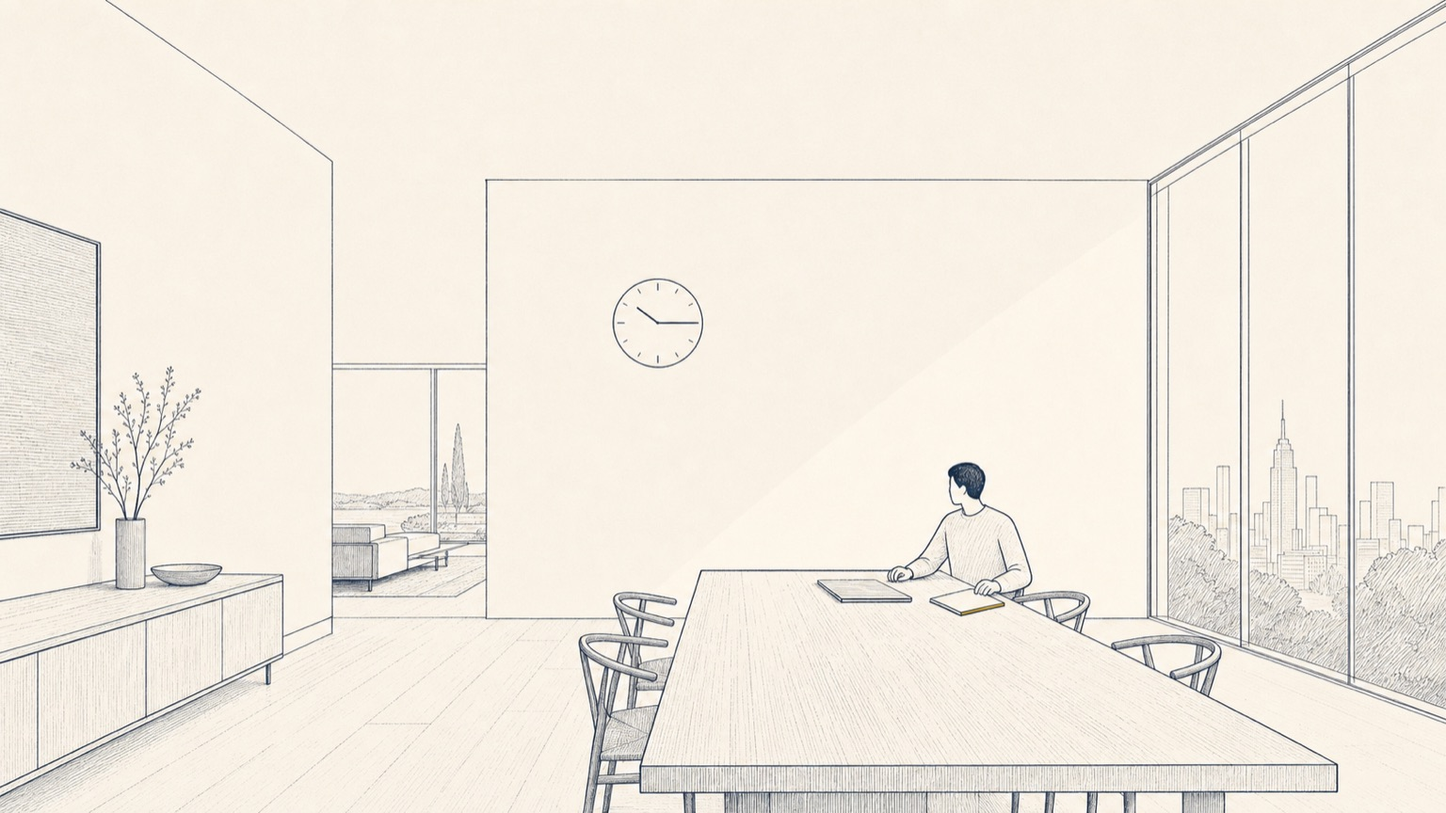
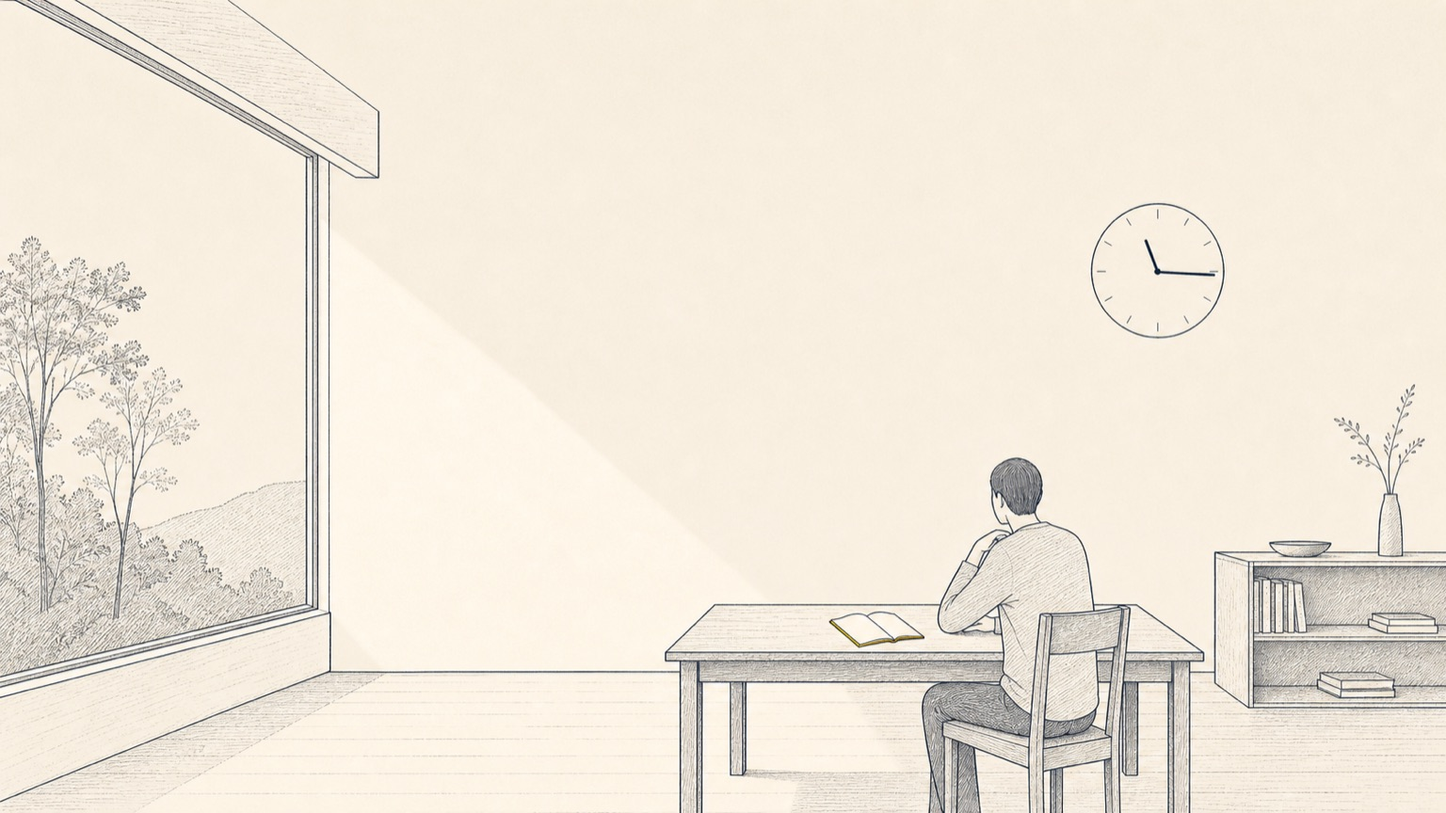
Generalize living between ambitions essay

diff --git a/_posts/2026-08-19-how-to-live-between-ambitions.md b/_posts/2026-08-19-how-to-live-between-ambitions.md
@@ -1,10 +1,10 @@
 ---
 layout: post
-title: "How to Live Between Ambitions: Work, Boredom, and the Next Chapter"
+title: "How to Live Between Ambitions: Boredom, Structure, and the Next Chapter"
 date: 2026-08-19
 ---
 
-*This post was researched and written on 2026-08-19 by GPT-5 (Codex), which gathered and checked the primary sources. A human set the question, context, and publication scope. It is a companion to [Living Well After Sudden Wealth](https://research.gmfoster.com/2026/08/14/good-life-after-sudden-wealth/) and [Choosing a Second Mountain](https://research.gmfoster.com/2026/08/15/choosing-a-second-mountain/); those cover money and mission, while this one covers the days in between.*
+*This post was researched and written on 2026-08-19 by GPT-5 (Codex), which gathered and checked the primary sources. A human set the question and publication scope. It is a companion to [Choosing a Second Mountain](https://research.gmfoster.com/2026/08/15/choosing-a-second-mountain/), which covers long-range purpose; this one covers the days in between.*
 
 ## Contents
 {:.no_toc}
@@ -14,41 +14,37 @@ date: 2026-08-19
 
 ## The answer before the evidence
 
-There is a particular kind of distress available to people whose lives look unusually good. The apartment is nice. Health is intact. Money has made most ordinary emergencies manageable. Work is no longer all-consuming, perhaps because success has made it optional or because interest has leaked out of it. From the outside, this is freedom. From the inside, an empty Tuesday can feel like an accusation.
+There is a particular kind of distress that appears between demanding chapters. The external conditions may be stable, yet an old structure has loosened before a new one exists. From the outside, this can look like freedom. From the inside, an empty Tuesday can feel like an accusation.
 
-The old job still pays, so leaving feels expensive. Staying feels dishonest. The next company could be important, so every unspent hour feels like lost momentum. A relationship needs care or a decision, so even dinner becomes evidence for a verdict. The calendar opens, and three different questions rush in to occupy it: How do I recover? Who am I without the old project? What should I choose next?
+The calendar opens, and several questions rush in to occupy it: How do I recover from the last period of intensity? What still feels meaningful? What should I explore next? The wish to answer them quickly can turn open time into another arena for pressure.
 
-My conclusion from the research is that these questions should not be answered on the same clock. The useful design is neither maximum busyness nor a blank calendar cultivated in the hope that boredom will reveal a calling. I would call it structured spaciousness: a few stable anchors, real detachment from the old work, protected open time, and small experiments that put possible futures into contact with reality.
+My conclusion from the research is that these questions should not be answered on the same clock. The useful design is neither maximum busyness nor a blank calendar cultivated in the hope that boredom will reveal a calling. I would call it structured spaciousness: a few stable anchors, real recovery from recent demands, protected open time, and small experiments that put possible futures into contact with reality.
 
-No study has assigned financially secure former founders to competing lifestyles. I am transferring evidence from work recovery, sabbaticals, career changes, founder exits, retirement, unemployment, and laboratory studies of motivation and incubation. That transfer is imperfect. It is still more useful than the two folk prescriptions, "stay busy" and "do nothing until desire returns."
+No study has assigned self-directed adults in transition to competing ways of organizing their days. I am transferring evidence from work recovery, sabbaticals, career changes, retirement, unemployment, identity transitions, and laboratory studies of motivation and incubation. That transfer is imperfect. It is still more useful than the two folk prescriptions, "stay busy" and "do nothing until desire returns."
 
-![A person sits alone at a long table in a spacious New York apartment, with an open calendar and city skyline beyond the windows.](https://research.gmfoster.com/assets/illustrations/living-between-ambitions/01-scene-empty-tuesday.jpg)
+![A person sits at a simple table in a quiet, non-specific room, with an open notebook and an unallocated day ahead.](https://research.gmfoster.com/assets/illustrations/living-between-ambitions/01-scene-empty-tuesday.jpg)
 
 ## The problem may be the kind of motivation, not the amount
 
 Someone can work hard, research constantly, train every day, and still be described accurately as having a motivation problem. Richard Ryan and Edward Deci's [self-determination research](https://selfdeterminationtheory.org/wp-content/uploads/2014/04/2000_RyanDeci_IntExtDefs.pdf) distinguishes autonomous motivation, acting from interest or a value one endorses, from controlled motivation, acting under reward, guilt, fear, or pressure. Both move behavior. They do not feel the same, and they do not have the same relationship with persistence and well-being.
 
-This distinction explains a state that otherwise looks incoherent: "I am driven, but I do not want to do any of the things driving me." Vesting, reputation, fear of wasted potential, the imagined judgment of other founders, and the need to prove that the first success was not luck can generate enormous activity. They can also make the activity feel alien.
+This distinction explains a state that otherwise looks incoherent: "I am driven, but I do not want to do any of the things driving me." External rewards, reputation, fear of wasted potential, and the imagined judgment of peers can generate enormous activity. They can also make the activity feel alien.
 
 The work literature repeatedly returns to three experiences: autonomy, competence, and relatedness. A [meta-analytic review spanning 99 studies and 119 samples](https://repository.nwu.ac.za/items/41302200-abe1-464f-b760-48ca7afa09fb) found that satisfaction of those needs at work had distinct relationships with motivation and well-being (empirical, mostly nonexperimental). Every hour need not be intrinsically delightful. But freedom without mastery or connection can feel empty, and impressive output can still be driven almost entirely by pressure.
 
 When a week feels dead, do not ask only how much was accomplished. Ask which activity felt chosen, where ability was stretched and made visible, and when another person was actually present. A calendar can be full and fail all three tests.
 
-The money question belongs here too. The old slogan that income stops improving happiness above $75,000 does not survive newer evidence. In a 2023 adversarial collaboration, the authors of competing studies found that [experienced well-being generally continued to rise with log income](https://pubmed.ncbi.nlm.nih.gov/36857342/), with flattening mainly among the least-happy subgroup (empirical, observational). Money matters. Its marginal effect shrinks, and it does not manufacture a Tuesday containing autonomy, competence, or relatedness.
-
 ## Recovery, identity, and choice run on different clocks
-
-The word *burnout* is often stretched to cover every aversion to work. Christina Maslach and Michael Leiter's [review of the burnout literature](https://pmc.ncbi.nlm.nih.gov/articles/PMC4911781/) describes a more specific cluster: exhaustion, cynicism or detachment, and reduced efficacy. It also identifies recurring mismatches in workload, control, reward, community, fairness, and values. A values mismatch and a sleep deficit can both produce dread, but they do not call for the same repair.
 
 Recovery itself is not just the absence of labor. In employee studies, Sabine Sonnentag and Charlotte Fritz found four distinguishable experiences: [psychological detachment, relaxation, mastery, and control over off-job time](https://doi.org/10.1037/1076-8998.12.3.204). The list helps explain why a day of scrolling can leave someone more depleted than a day spent climbing, cooking, or learning an instrument. The second group of activities may require effort while still providing detachment, agency, and mastery.
 
 There is a nasty feedback loop here. Sonnentag calls it the [recovery paradox](https://www.helsinki.fi/assets/drupal/2024-04/Sonnentag.pdf): the higher the job stress, the greater the need for recovery, but the less likely people are to detach, exercise, and sleep well. "I should relax better" then becomes another controlled goal. Structural boundaries work better than moral pressure: a hard stop, a separate place, notifications off, a plan with another person, and an activity absorbing enough to interrupt rehearsal of the work problem.
 
-Long breaks help, but the fade-out matters. A matched study followed [129 academics on sabbatical and 129 controls](https://stacks.cdc.gov/view/cdc/203334/cdc_203334_DS1.pdf) before, during, and after leave. Resource gain and well-being rose during the sabbatical, especially when people felt control and detached from routine work. Much of the gain disappeared after they returned. The participants averaged 56 and were still doing academic work, so this is not a founder trial. Its mixed verdict is useful anyway: respite is real, and it does not permanently repair the system one re-enters.
+Long breaks help, but the fade-out matters. A matched study followed [129 academics on sabbatical and 129 controls](https://stacks.cdc.gov/view/cdc/203334/cdc_203334_DS1.pdf) before, during, and after leave. Resource gain and well-being rose during the sabbatical, especially when people felt control and detached from routine work. Much of the gain disappeared after they returned. The participants averaged 56 and were still doing academic work, so this is not a direct trial of early-career transitions. Its mixed verdict is useful anyway: respite is real, and it does not permanently repair the system one re-enters.
 
-Identity moves more slowly. Elizabeth Rouse's interview study of technology founders included [30 voluntary, successful exits](https://journals.aom.org/doi/10.5465/amj.2013.1219). Founders oriented toward serial idea creation often had another identity underway before leaving. Founders attached to stewardship of a particular organization more often described sadness, pain, and loss. The author's own [summary of the research](https://eprints.lse.ac.uk/74322/) calls exit a process of psychological disengagement, an unbecoming as well as an opportunity. This is qualitative evidence, not a diagnostic typology, but it catches something financial accounts miss. The company can be sold in a day; the founder identity does not clear on settlement.
+Identity moves more slowly. A role can end before its habits and self-conceptions do. A few quiet weeks may lower exhaustion without answering who the person is next, which is why recovery and identity exploration should not be treated as the same task.
 
-Consequential choice runs on a third clock. A rested person has better conditions for judgment, but rest does not choose a career or a partner. A new identity produces information, but it cannot eliminate uncertainty. Trying to force all three processes to finish together creates the familiar spiral: recover urgently so that identity becomes clear so that a permanent decision can be made by Friday.
+Consequential choice runs on a third clock. A rested person has better conditions for judgment, but rest does not choose a direction. A new identity produces information, but it cannot eliminate uncertainty. Trying to force all three processes to finish together creates the familiar spiral: recover urgently so that identity becomes clear so that a permanent decision can be made by Friday.
 
 Lower the noise before demanding clarity. Explore before converging, and put high-stakes decisions in explicit containers rather than letting them turn every hour into deliberation.
 
@@ -56,7 +52,7 @@ Lower the noise before demanding clarity. Explore before converging, and put hig
 
 ## A blank calendar is not neutral
 
-Paid work delivers income and several less visible things. Unemployment research often uses Marie Jahoda's list: time structure, shared purpose, social contact, status, and regular activity. A [meta-analysis of 104 studies and 437 effect sizes](https://doi.org/10.1037/0021-9010.90.1.53) found lower well-being among unemployed than employed people and, within unemployed samples, strong relationships between mental health and resources including social support, money, and time structure (empirical). Involuntary unemployment is not a wealthy sabbatical. The narrower point travels: money replaces wages, not the rest of what work supplied.
+Paid work delivers income and several less visible things. Unemployment research often uses Marie Jahoda's list: time structure, shared purpose, social contact, status, and regular activity. A [meta-analysis of 104 studies and 437 effect sizes](https://doi.org/10.1037/0021-9010.90.1.53) found lower well-being among unemployed than employed people and, within unemployed samples, strong relationships between mental health and resources including social support, money, and time structure (empirical). Involuntary unemployment is not a voluntary transition. The narrower point travels: a pause can remove structure that a person never consciously chose.
 
 "I finally have nothing I have to do" can be exhilarating for a week and disorienting by month two. There is no morning coordination problem, no team expecting an answer, no casual hallway encounter, and no reason Tuesday differs from Saturday. Freedom has removed coercion, but it has also removed form.
 
@@ -86,31 +82,31 @@ Bertrand Russell reached a compatible conclusion by philosophy rather than exper
 
 The most useful career-transition evidence reverses the order ambitious people usually prefer. The standard fantasy is introspection first, correct answer second, commitment third. Herminia Ibarra's study of professional adaptation found people instead observing role models, trying [provisional selves](https://www.jstor.org/stable/2667055), and revising those trials using inner reactions and outside feedback (empirical, qualitative). Her later case research and [author's account of career transition](https://herminiaibarra.com/why-career-transition-is-so-hard-and-how-to-manage-it-better/) make the point directly: tacit knowledge about identity emerges through action, new relationships, and a revised story.
 
-This is especially relevant to company search. Researching markets uses familiar founder skills and produces a feeling of motion. It can also keep every possibility abstract enough to remain attractive. A month of reading about climate adaptation does not reveal whether one enjoys the people, pace, politics, or daily work in climate adaptation.
+This is especially relevant to the search for a new direction. Reading, mapping fields, and comparing possibilities can produce a feeling of motion while keeping every option abstract enough to remain attractive. A month of reading about climate adaptation does not reveal whether one enjoys the people, pace, politics, or daily work in climate adaptation.
 
-James March's classic model of [exploration and exploitation](https://hiveresearchlab.org/wp-content/uploads/2013/12/march_1991_exploration_and_exploitation_in_organizational_learning.pdf) explains why the trap is stable. Exploitation of known capabilities gives faster and more certain feedback than exploration. A good operator can therefore become extremely efficient at evaluating decks, mapping markets, and producing theses while learning little about whether a life inside the domain fits. March was modeling organizations, so applying this to a personal calendar is an inference. It is a useful one.
+James March's classic model of [exploration and exploitation](https://hiveresearchlab.org/wp-content/uploads/2013/12/march_1991_exploration_and_exploitation_in_organizational_learning.pdf) explains why the trap is stable. Exploitation of known capabilities gives faster and more certain feedback than exploration. A capable analyst can become extremely efficient at reading, mapping fields, and producing theses while learning little about whether a life inside the domain fits. March was modeling organizations, so applying this to a personal calendar is an inference. It is a useful one.
 
 I would force the search into three kinds of small experiment. The first tests craft: Do I like doing the work? Build a prototype, write an analysis, teach a session, conduct interviews, or make something for a real user. The second tests context by putting the person inside a lab, school, clinic, nonprofit, fund, workshop, or public agency. The third tests contribution: Does being useful here matter even without ownership? Mentor, volunteer, advise, host, maintain, or serve.
 
-Each experiment needs a question, another person or real beneficiary, a short time box, and a review date. Evaluate energy before, during, and after; desire to return; learning rate; contribution; social fit; and cost. Market size may still matter if a company is the eventual vehicle. It should not be the only sensor used to select a life.
+Each experiment needs a question, another person or real beneficiary, a short time box, and a review date. Evaluate energy before, during, and after; desire to return; learning rate; contribution; social fit; and cost. Practical constraints still matter. They should not be the only sensors used to select a life.
 
 The ratio I would enforce is not a scientific constant: for every week of reading and ideation, produce at least one encounter with reality. A conversation counts if it changes a belief. A prototype counts if someone uses it. A trial role counts if the unglamorous parts are included. More notes do not count merely because they are organized.
 
-## Purpose does not have to arrive company-sized
+## Purpose does not have to arrive all at once
 
-The pressure to identify one grand mission creates a hidden bottleneck. Until the mission appears, ordinary sources of meaning are treated as placeholders. Friendship, health, craft, a neighborhood, romance, art, and service become things to maintain while waiting for real life to restart.
+The pressure to identify one grand mission creates a hidden bottleneck. Until the mission appears, ordinary sources of meaning are treated as placeholders. Friendship, health, craft, a neighborhood, art, and service become things to maintain while waiting for real life to restart.
 
 The psychological evidence does not require this hierarchy. In a factor analysis of a national adult sample, Carol Ryff and Corey Keyes found that a [six-part model of well-being](https://midus.wisc.edu/findings/pdfs/830.pdf), autonomy, environmental mastery, personal growth, positive relationships, purpose, and self-acceptance, fit better than a single undifferentiated factor (empirical). Purpose is one dimension, not the entire structure. Mortality studies find that purpose predicts better long-term outcomes, including in a [14-year MIDUS follow-up](https://pubmed.ncbi.nlm.nih.gov/24815612/), but those studies are observational. They do not prove that discovering a single calling causes longevity.
 
-I would therefore carry several valued directions at once: health, intimacy, friendship and community, craft and learning, and contribution. A company may later organize several of them. It should not be asked to create all of them from nothing.
+I would therefore carry several valued directions at once: health, friendship and community, craft and learning, and contribution. A larger project may later organize several of them. It should not be asked to create all of them from nothing.
 
 Leisure belongs inside this structure, not after it. A quantitative review of 363 papers proposed six mechanisms connecting leisure and well-being: [detachment, relaxation, autonomy, mastery, meaning, and affiliation](https://www.davidbenjaminnewman.com/uploads/1/3/2/7/132771163/johs-2014-leisure_and_swb.pdf). The model organizes a mostly correlational literature, so it is not a prescription. It does make a neglected point visible: a basketball league, choir, climbing gym, cooking practice, garden, or reading group may be doing serious psychological work without becoming monetizable.
 
 Community is more than mood decoration. A meta-analysis of 148 prospective studies and 308,849 participants found that [stronger social relationships were associated with 50 percent higher odds of survival](https://journals.plos.org/plosmedicine/article?id=10.1371/journal.pmed.1000316), with substantial heterogeneity and the strongest association for multidimensional social integration. This is observational mortality evidence, not proof that adding one dinner causes a specified health gain. It is enough to move recurring contact out of the optional column.
 
-Older traditions arrived at a similar calendar by moral reasoning. The Sabbath command in [Exodus](https://www.sefaria.org/Exodus.20.8-11) puts nonwork on a recurring communal schedule instead of waiting for work to finish (traditional wisdom). Aristotle's [*Nicomachean Ethics*](https://www.perseus.tufts.edu/hopper/text?doc=Perseus%3Atext%3A1999.01.0054%3Abook%3D10) distinguishes amusement used to recover for more work from worthwhile activity pursued for its own sake. A secular version is not a clever productivity tool. It is a recurring period in which career optimization, venture search, financial scorekeeping, and relationship analysis are simply not the activity.
+Older traditions arrived at a similar calendar by moral reasoning. The Sabbath command in [Exodus](https://www.sefaria.org/Exodus.20.8-11) puts nonwork on a recurring communal schedule instead of waiting for work to finish (traditional wisdom). Aristotle's [*Nicomachean Ethics*](https://www.perseus.tufts.edu/hopper/text?doc=Perseus%3Atext%3A1999.01.0054%3Abook%3D10) distinguishes amusement used to recover for more work from worthwhile activity pursued for its own sake. A secular version is not a clever productivity tool. It is a recurring period in which planning, status comparison, and self-evaluation are simply not the activity.
 
-Leisure that exists only to restore work capacity or prepare the next company remains subordinate to work.
+Leisure that exists only to restore work capacity or prepare the next project remains subordinate to work.
 
 ## A four-to-six-week trial
 
@@ -120,18 +116,18 @@ No evidence establishes an optimal schedule for this population. What follows is
 
 | Part of day | A workable default |
 |---|---|
-| Opening anchor, 30 to 90 minutes | Wake in a consistent window; get light, food, and movement; do not begin with career search |
-| Chosen mastery, 60 to 120 minutes | Make or practice something that need not become a company |
+| Opening anchor, 30 to 90 minutes | Wake in a consistent window; get light, food, and movement; do not begin with future planning |
+| Chosen mastery, 60 to 120 minutes | Make or practice something that need not become a project |
 | Real-world exploration, 60 to 180 minutes on selected days | Have a conversation, observe work, prototype, serve, or try a role |
 | Undemanding interval, 20 to 90 minutes | Walk, cook, handle chores, take transit, or exercise easily after focused work |
 | Social or contribution contact | Share a meal, attend a class or team, call someone, mentor, or volunteer |
-| Closing boundary | End work and venture evaluation at a set time |
+| Closing boundary | End structured effort and future evaluation at a set time |
 
-This is not a substitute eight-hour job. On a difficult day, shrink it to a 20-minute walk, one call or shared meal, and 20 minutes practicing or making. The analogy is behavioral activation, where scheduled valued activity has helped adults with depression in clinical trials, including a [241-person randomized study](https://pubmed.ncbi.nlm.nih.gov/16881773/). The analogy is not a diagnosis, and a self-made calendar is not a clinical protocol. The relevant lesson is that action need not wait for motivation.
+This is not a substitute full-day agenda. On a difficult day, shrink it to a 20-minute walk, one call or shared meal, and 20 minutes practicing or making. The analogy is behavioral activation, where scheduled valued activity has helped adults with depression in clinical trials, including a [241-person randomized study](https://pubmed.ncbi.nlm.nih.gov/16881773/). The analogy is not a diagnosis, and a self-made calendar is not a clinical protocol. The relevant lesson is that action need not wait for motivation.
 
-Across a week, schedule three focused experiments tied to real questions and two or three embodied mastery sessions such as sport, dance, or craft. Put two recurring social commitments on the calendar, plus one block for helping a person or institution without immediately turning the experience into networking or a venture thesis.
+Across a week, schedule three focused experiments tied to real questions and two or three embodied mastery sessions such as sport, dance, or craft. Put two recurring social commitments on the calendar, plus one block for helping a person or institution without immediately turning the experience into a credential or thesis about the future.
 
-Protect one half-day of open space with no errand stack and no feed. Walking, wandering, museums, cooking, reading, rest, and a question already engaged are all allowed. Protect another half-day or day as a Sabbath-like stop with no work optimization, company ideation, financial scorekeeping, or relationship analysis. The first period permits surprise and incubation. The second keeps some of life from becoming an input to a future outcome. They can overlap if the distinction remains intact.
+Protect one half-day of open space with no errand stack and no feed. Walking, wandering, museums, cooking, reading, rest, and a question already engaged are all allowed. Protect another half-day or day as a Sabbath-like stop with no strategic planning, status comparison, or future evaluation. The first period permits surprise and incubation. The second keeps some of life from becoming an input to a future outcome. They can overlap if the distinction remains intact.
 
 Use 45 minutes at week's end to review what happened. Do not build a quantified-self bureaucracy; one page is enough, with scores from 0 to 3 if numbers help. Ask:
 
@@ -139,33 +135,29 @@ Use 45 minutes at week's end to review what happened. Do not build a quantified-
 - Did I detach and relax, and where did I experience mastery or control over my time?
 - What did reality teach that research alone could not, and what happened to my energy before, during, and after?
 - What felt worthwhile even if no market valued it?
-- What did I call research that was actually delay, which open periods became numbing, and which goals ran mostly on status, money, guilt, or fear?
+- What did I call research that was actually delay, which open periods became numbing, and which goals ran mostly on status, guilt, or fear?
 
 Then keep one commitment, drop one, and adjust one experiment. This is a learning loop, not a quarterly performance review on the self.
 
-The larger transition can be looser. If circumstances permit, spend roughly two to six weeks lowering arousal, restoring physical rhythm, detaching from the old role, and reestablishing nonwork relationships while keeping one small mastery practice. Over the next six to twelve weeks, run two or three cheap, reversible identity experiments and let direct contact precede most market research. Increase commitment only where repeated experience shows curiosity, contribution, social fit, and a desire to return.
+The larger transition can be looser. If circumstances permit, spend roughly two to six weeks lowering arousal, restoring physical rhythm, stepping back from recent demands, and reestablishing recurring social contact while keeping one small mastery practice. Over the next six to twelve weeks, run two or three cheap, reversible identity experiments and let direct contact precede extensive research. Increase commitment only where repeated experience shows curiosity, contribution, social fit, and a desire to return.
 
 Those durations are planning ranges, not biological thresholds. Their job is to prevent a permanent choice made inside acute strain without turning the in-between period into an indefinite lifestyle.
 
-## Put high-stakes decisions in separate containers
+## Keep consequential decisions outside the schedule
 
-A life-design schedule should not be asked to decide an employment contract or a relationship. Those choices have facts, counterparties, and consequences that the general well-being literature cannot see.
+A life-design schedule should not be asked to settle relocations, health choices, or other consequential commitments. Those decisions have facts and consequences that the general well-being literature cannot see.
 
-Trying to engineer a dismissal, for example, is not the same intervention as working fewer hours. A 2025 multicountry study followed 2,896 employees at 141 organizations adopting a four-day week without reduced pay and found [improvements in burnout, job satisfaction, and health](https://www.nature.com/articles/s41562-025-02259-6) relative to 12 comparison companies. The firms prepared by redesigning work. That does not establish that covert withdrawal under unchanged expectations improves well-being. Contract, equity, legal, ethical, and reputation questions must be examined on their actual documents and facts.
-
-Relationship uncertainty deserves the same separation. A [meta-analysis of intolerance of uncertainty](https://www.sciencedirect.com/science/article/pii/S0165032717306584) found strong associations with worry and anxiety, although almost all included studies were cross-sectional, involved children or adolescents, and had nothing to do with romantic decisions. Research on commitment also distinguishes deliberately deciding from sliding through transitions that add constraints. Stanley, Rhoades, and Markman's [paper on cohabitation and inertia](https://doi.org/10.1111/j.1741-3729.2006.00418.x) is narrower than the general slogan, and cultural patterns have changed. The defensible practical inference is containment: explicit conversations and mutually understood review dates for consequential choices, without monitoring every shared meal for a final answer.
-
-A weekly relationship window may help if both people understand what it is for. It is not an evidence-based universal protocol, and it is not appropriate where safety, coercion, abuse, or urgent legal or fertility considerations change the stakes.
+Give each one its own process: gather the relevant facts, identify what is reversible, set a review date, and consult qualified expertise where the stakes require it. A better day may improve the conditions for judgment. It cannot supply the judgment itself.
 
 ## What the schedule cannot do
 
-This structure cannot reveal a company on command, make an incompatible job compatible, or make an unsafe relationship safe. Nor should every period of low mood be treated as a lifestyle problem.
+This structure cannot reveal a calling on command or resolve a consequential decision. Nor should every period of low mood be treated as a lifestyle problem.
 
-[Persistent loss of pleasure, severe sleep change, inability to function, or thoughts of self-harm](https://www.nimh.nih.gov/health/publications/depression) deserve qualified clinical attention, as do panic or escalating substance use. [Burnout overlaps with depression but is not identical to it](https://pmc.ncbi.nlm.nih.gov/articles/PMC4911781/), and a research essay cannot distinguish them for an individual.
+[Persistent loss of pleasure, severe sleep change, inability to function, or thoughts of self-harm](https://www.nimh.nih.gov/health/publications/depression) deserve qualified clinical attention, as do panic or escalating substance use. A research essay cannot distinguish a difficult transition from a condition that needs individual assessment.
 
 The schedule has a smaller use. It replaces some of work's hidden structure, protects recovery without letting rest become formlessness, and turns the search for a future from an abstract ranking problem into lived encounters.
 
-Seneca's target in [*On the Shortness of Life*](https://en.wikisource.org/wiki/On_the_shortness_of_life) was not work but preoccupation (traditional wisdom): a life pledged to ambition, obligation, appetite, and anticipation. Working less while mentally pricing an exit, a startup, and a relationship all day is still a form of total occupation.
+Seneca's target in [*On the Shortness of Life*](https://en.wikisource.org/wiki/On_the_shortness_of_life) was not work but preoccupation (traditional wisdom): a life pledged to ambition, obligation, appetite, and anticipation. A nominally open day spent mentally pricing every possible future is still a form of total occupation.
 
 The alternative is a day with edges: some chosen work, contact with reality, movement, another person, and an undemanding interval after holding a real question. It also has a known stopping time and some activity that is not being judged by its contribution to the future.
 
@@ -176,7 +168,6 @@ The next ambition may emerge from that life. It does not need to be invented bef
 - [Ryan and Deci, "Intrinsic and Extrinsic Motivations"](https://selfdeterminationtheory.org/wp-content/uploads/2014/04/2000_RyanDeci_IntExtDefs.pdf). The cleanest introduction to autonomous and controlled motivation.
 - [Sonnentag and Fritz, "The Recovery Experience Questionnaire"](https://doi.org/10.1037/1076-8998.12.3.204). Detachment, relaxation, mastery, and control.
 - [Davidson and colleagues, "Sabbatical Leave: Who Gains and How Much?"](https://stacks.cdc.gov/view/cdc/203334/cdc_203334_DS1.pdf). The strongest direct evidence here on extended respite and fade-out.
-- [Rouse, "Beginning's End"](https://journals.aom.org/doi/10.5465/amj.2013.1219). Successful founder exit as an identity process.
 - [Ibarra, "Provisional Selves"](https://www.jstor.org/stable/2667055). Why professional identity is tested in action.
 - [Sharif, Mogilner, and Hershfield, "Having Too Little or Too Much Time"](https://www.anderson.ucla.edu/sites/default/files/document/2021-09/Sharif_Mogilner_Hershfield_JPSP_2021_Too_Little_and_Too_Much_Time.pdf). The free-time curve and its limits.
 - [Sio and Ormerod, "Does Incubation Enhance Problem Solving?"](https://doi.org/10.1037/a0014212). The meta-analysis behind the careful version of the boredom claim.
@@ -185,10 +176,9 @@ The next ambition may emerge from that life. It does not need to be invented bef
 
 ## Claims I could not verify
 
-- No trial compares staying busy with cultivating boredom in financially independent former founders. The concrete schedule above is an inference from adjacent populations.
+- No trial compares staying busy with cultivating boredom in self-directed adult transitions. The concrete schedule above is an inference from adjacent populations.
 - No validated optimal daily or weekly allocation exists for a self-directed adult transition. The hour ranges are practical defaults, not scientific thresholds.
-- No reliable evidence establishes how long a founder should wait before starting another company.
-- No study shows that trying to be fired improves well-being or judgment. The outcome depends on facts outside this literature.
-- No universal relationship pace follows from the uncertainty or commitment research.
-- No ideal ratio of solitude to social time is known. Choice, temperament, relationship quality, and activity all matter.
+- No reliable evidence establishes how long someone should wait before beginning a major new undertaking.
+- No universal pace for consequential choices follows from this literature.
+- No ideal ratio of solitude to social time is known. Choice, temperament, social quality, and activity all matter.
 - "Two to five hours of free time is optimal" and "boredom makes you creative" are both more certain than their underlying evidence.

diff --git a/assets/illustrations/living-between-ambitions/prompts/01-scene-empty-tuesday.md b/assets/illustrations/living-between-ambitions/prompts/01-scene-empty-tuesday.md
@@ -9,18 +9,18 @@ output: 01-scene-empty-tuesday.jpg
 
 Use case: illustration-story
 Asset type: editorial illustration for a long-form research essay
-Primary request: Show the strange distress of a conventionally successful adult whose life looks good but whose newly open weekday has no form.
+Primary request: Show the suspended feeling of an adult between demanding chapters, facing an open weekday that has not yet found a form.
 
-FOCAL POINT: One small, simplified adult figure sits alone at the far end of a long dining table in a beautiful, quiet apartment on a bright weekday morning. The figure is not visibly miserable and has no detailed face. Their posture is slightly stalled, one hand near a closed laptop and the other resting beside a blank notebook. A simple wall clock reads about 10:15. The room is orderly, spacious, expensive, and empty. Through large windows, only a few thin lines suggest a city skyline.
+FOCAL POINT: One small, simplified adult figure sits at a plain wooden table in a quiet, non-specific room on a bright weekday morning. The figure is not visibly miserable and has no detailed face. Their posture is slightly stalled, with one hand resting beside an open blank notebook. A simple wall clock reads about 10:15. The room has only a chair, a modest shelf, and a window looking onto abstract trees and sky. The scene must remain anonymous and biography-neutral.
 
-COMPOSITION: Wide 16:9 scene. Place the person and table in the lower-right third. Let empty wall, window, floor, and morning light occupy at least two-thirds of the frame. The emotional contrast comes from abundance, stillness, and scale, not melodrama.
+COMPOSITION: Wide 16:9 scene. Place the person and table in the lower-right third. Let empty wall, window, floor, and morning light occupy at least two-thirds of the frame. The emotional effect comes from stillness and unallocated space, not scale or melodrama.
 
-ATMOSPHERE: Quiet, lucid, slightly suspended. This is not depression iconography and not a luxury advertisement.
+ATMOSPHERE: Quiet, lucid, slightly suspended. This is not depression iconography or a lifestyle advertisement.
 
 LABELS: No visible text anywhere in the image. The clock has simple tick marks only, no numbers.
 
 COLORS: Warm off-white paper background (#F4EFE5); charcoal gray-blue ink (#263442) for all lines and hatching; muted ochre (#C49A3A) used only as a tiny accent on the blank notebook's edge or a small pool of morning light. Color values and names are rendering guidance only. Do not display them as text.
 
-STYLE: Match the supplied canonical research-site images only for style and palette; ignore their content. Fine charcoal line work with slight hand-drawn variation, restrained architectural hatching, flat geometry, generous whitespace, quiet magazine illustration. No gradients, shadows, glossy objects, saturated colors, cards, badges, title banners, dollar signs, piles of money, phones glowing, or stock icons. Human figure is a simplified stylized silhouette, not photorealistic.
+STYLE: Match the supplied canonical research-site images only for style and palette; ignore their content. Fine charcoal line work with slight hand-drawn variation, restrained architectural hatching, flat geometry, generous whitespace, quiet magazine illustration. No gradients, shadows, glossy objects, saturated colors, cards, badges, title banners, city skyline, computer equipment, branded objects, elaborate furnishings, phones, or stock icons. Human figure is a simplified stylized silhouette, not photorealistic.
 
 Clean composition with generous white space. Simple background. ASPECT: 16:9.

diff --git a/assets/illustrations/living-between-ambitions/outline.md b/assets/illustrations/living-between-ambitions/outline.md
@@ -11,8 +11,8 @@ aspect: 16:9
 ## Illustration 1
 
 **Position**: After the opening section's description of an empty Tuesday.
-**Purpose**: Make the emotional stakes tangible without turning the requester's life into a case study.
-**Visual Content**: A conventionally successful but unmoored adult alone in a beautiful, quiet apartment on a weekday morning, surrounded by abundant space and no obvious crisis.
+**Purpose**: Make the emotional stakes tangible without implying a specific biography.
+**Visual Content**: An adult between chapters at a plain table in a quiet, non-specific room on a weekday morning, surrounded by unallocated space and no obvious crisis.
 **Type Application**: Establishing editorial scene with no text and very large negative space.
 **Filename**: 01-scene-empty-tuesday.jpg
 
